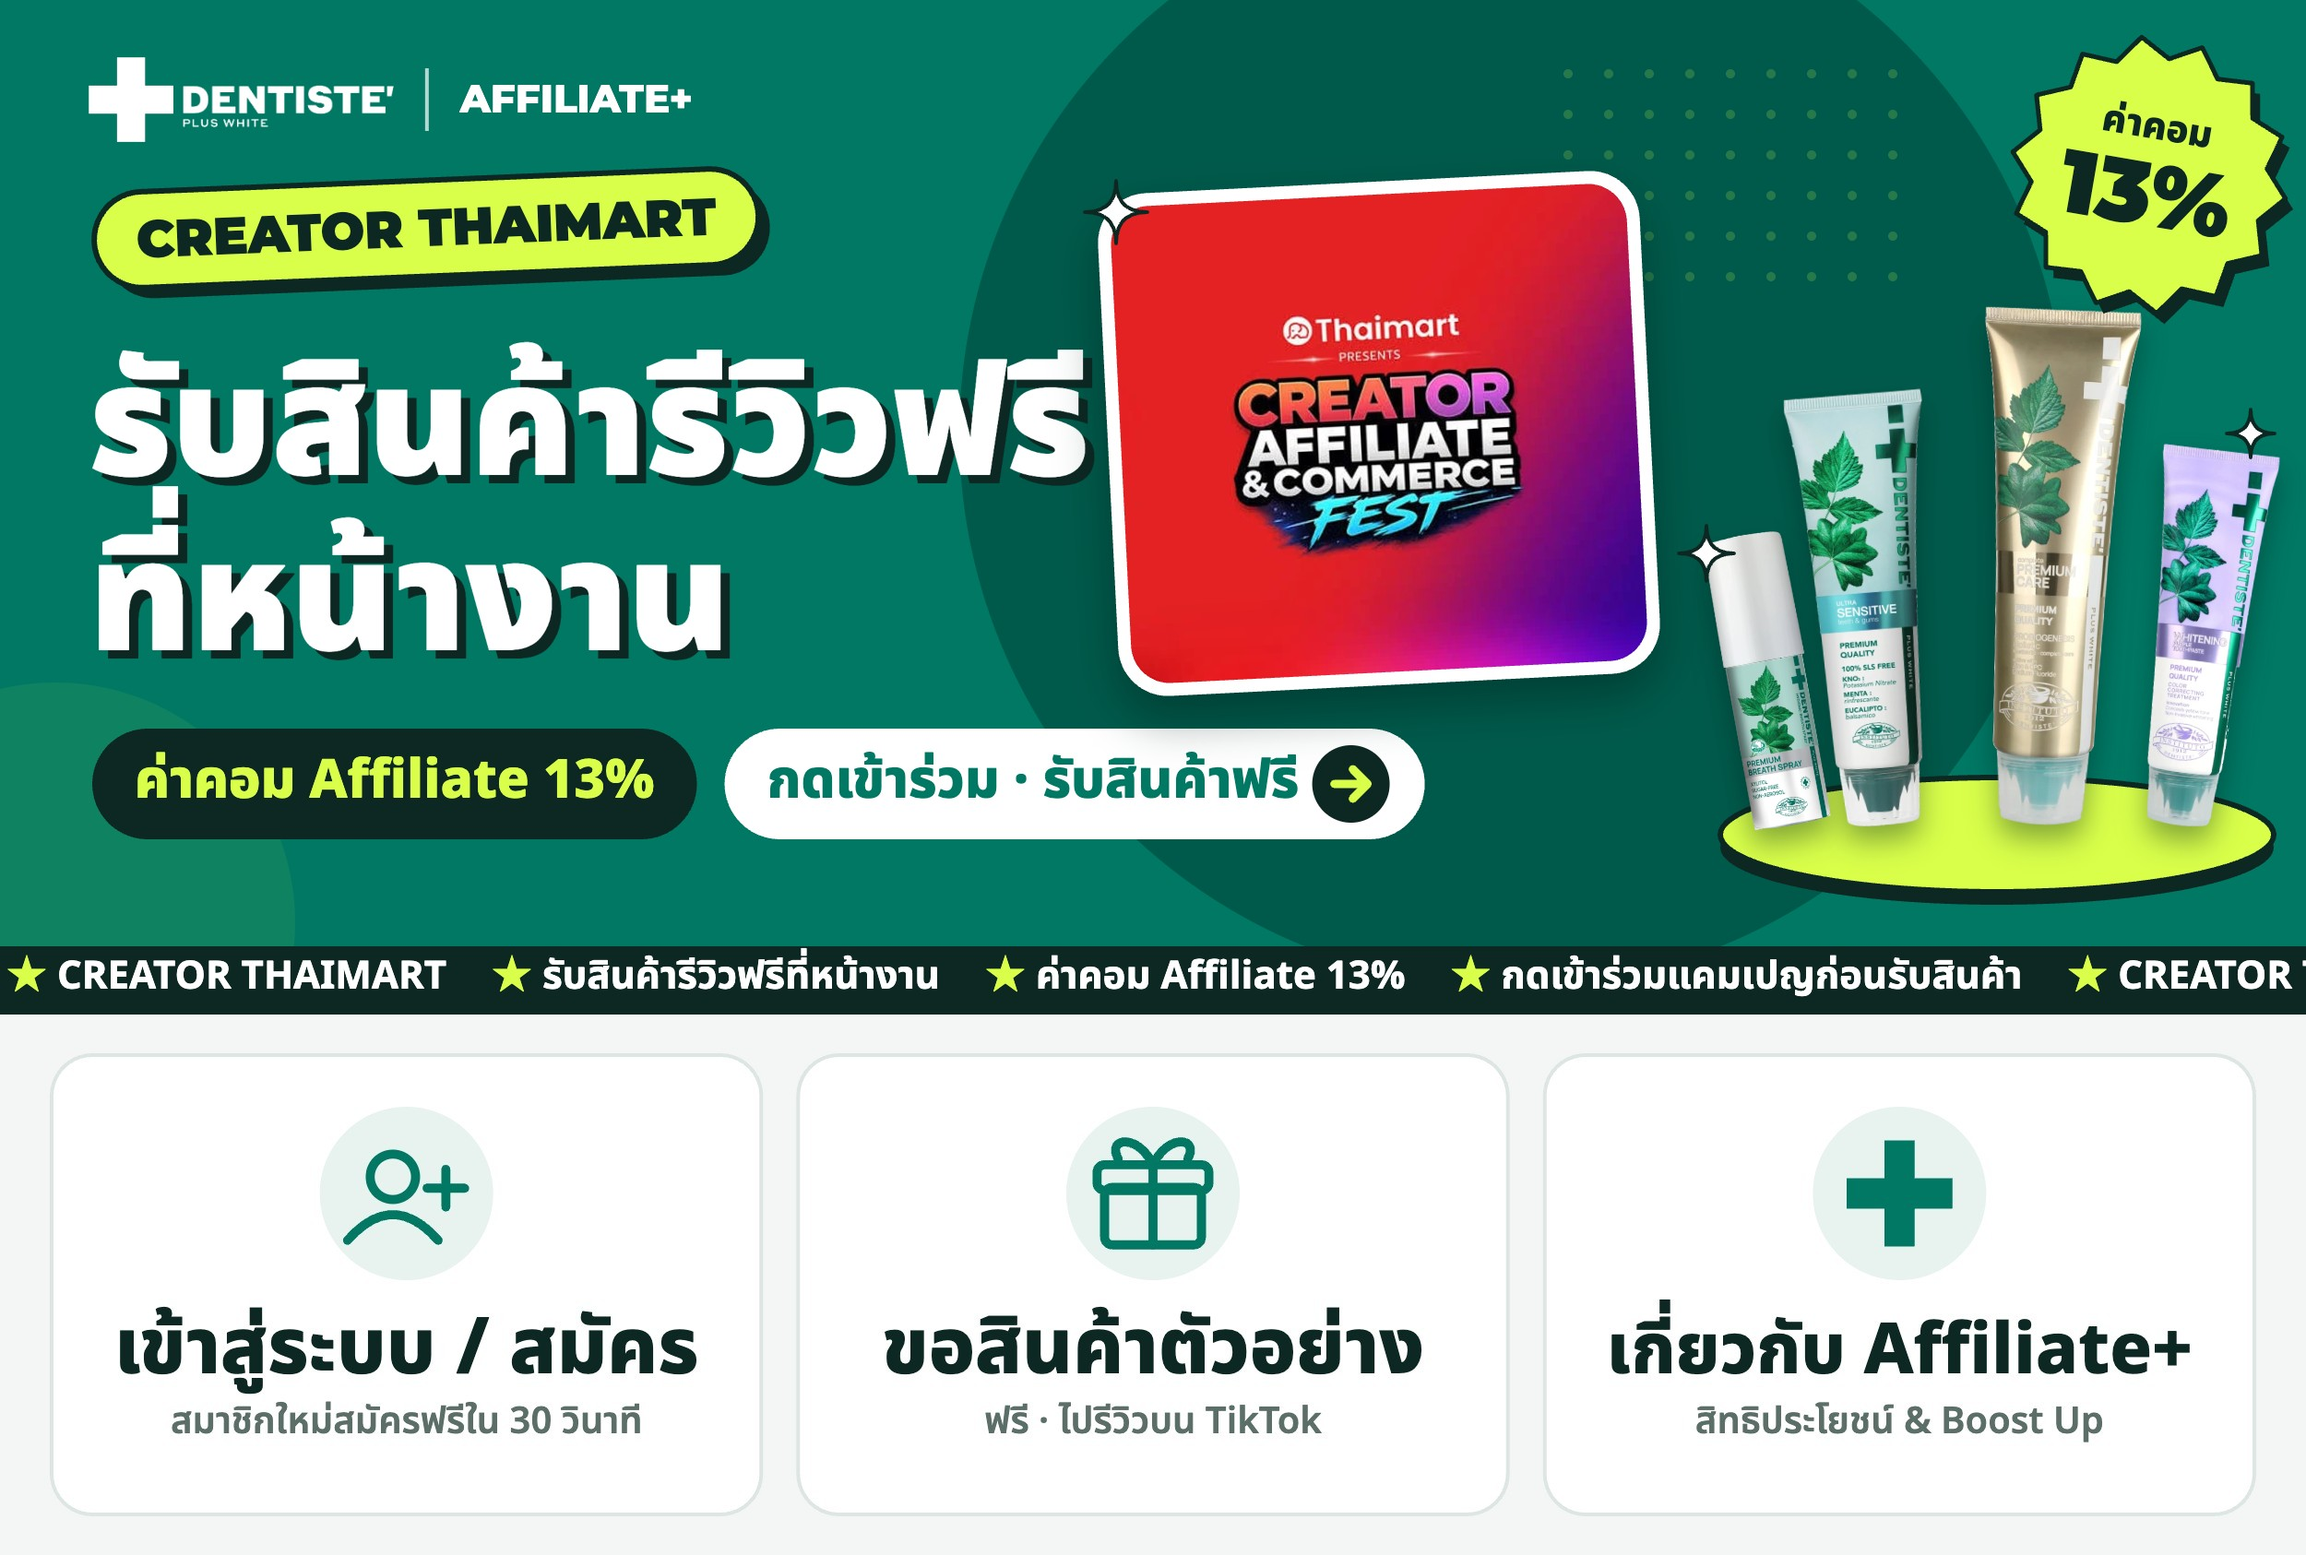
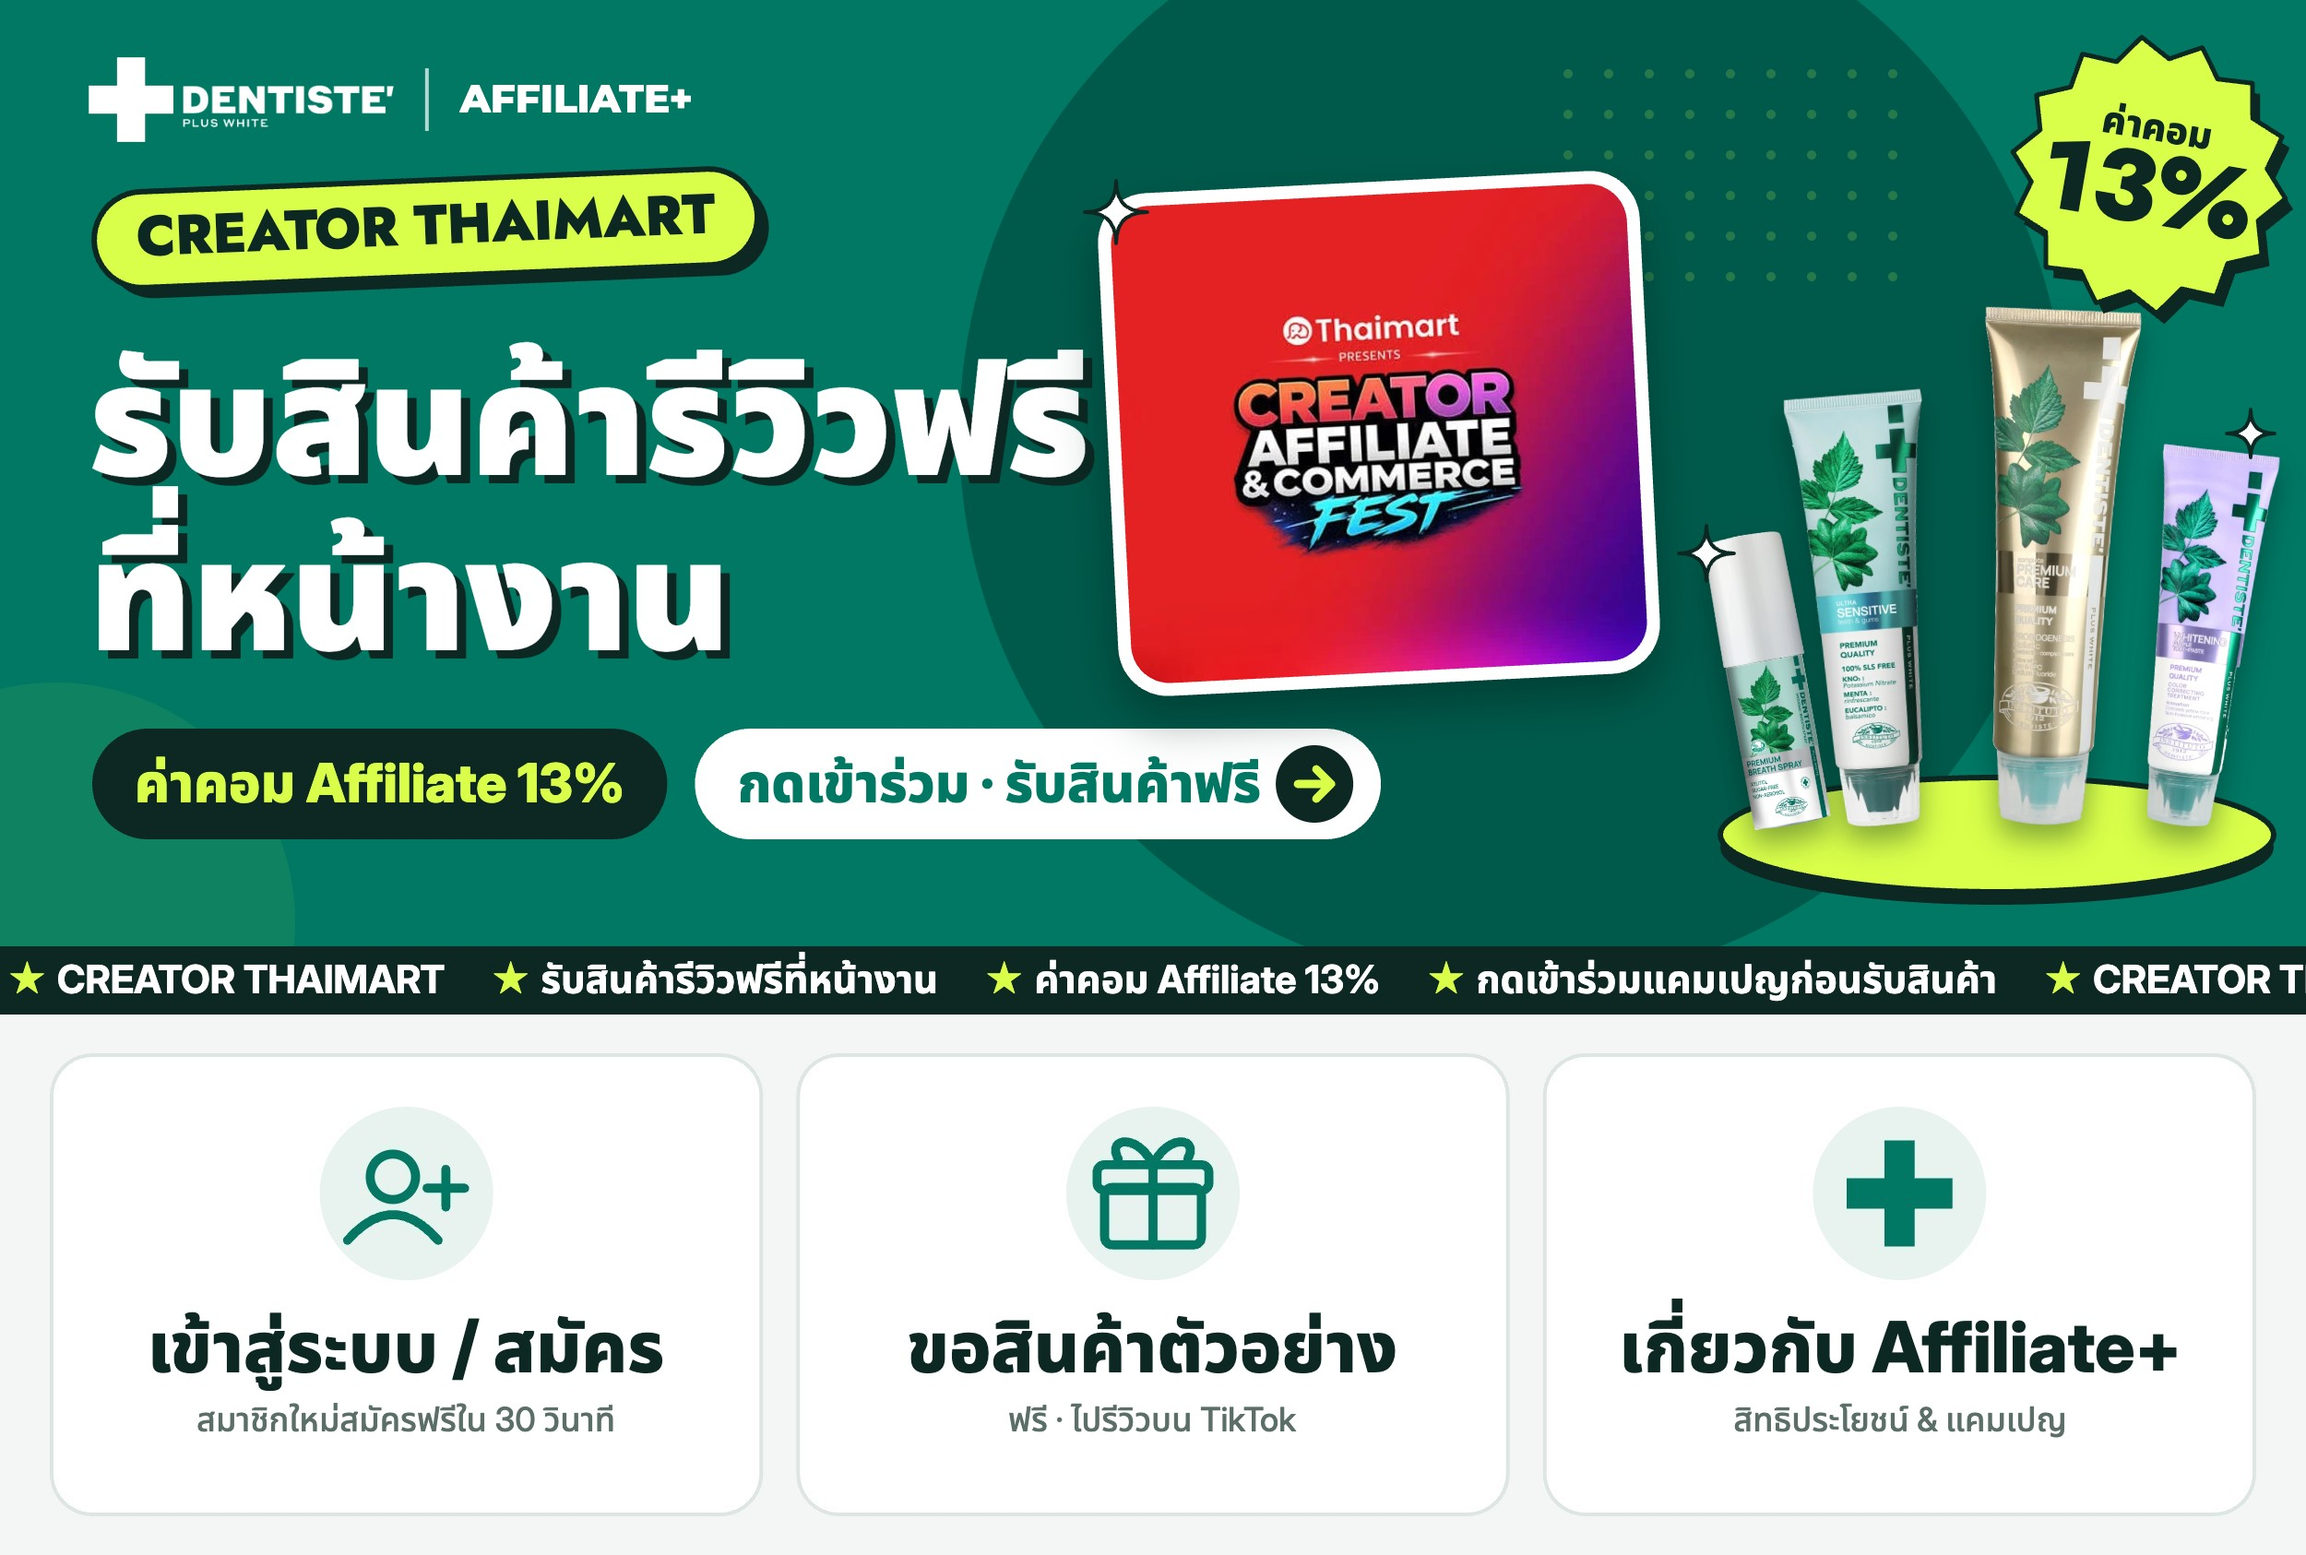
Fonts: Rich Menu + Affiliate Center match jomeloandtongar.com (Jost/Inter + Noto Sans Thai; AFFILIATE+ stays Montserrat)

diff --git a/admin.html b/admin.html
@@ -8,11 +8,11 @@
 <base target="_top">
 <link rel="preconnect" href="https://fonts.googleapis.com">
 <link rel="preconnect" href="https://fonts.gstatic.com" crossorigin>
-<link href="https://fonts.googleapis.com/css2?family=Noto+Sans+Thai:wght@400;500;600;700&display=swap" rel="stylesheet">
+<link href="https://fonts.googleapis.com/css2?family=Inter:wght@400;500;600;700;800&family=Jost:wght@500;600;700;800;900&family=Montserrat:wght@800&family=Noto+Sans+Thai:wght@400;500;600;700;800;900&display=swap" rel="stylesheet">
 <style>
   /* ===== Dentiste Affiliate Center — หลังบ้านทีม (สีทึบ ไม่ไล่สี) ===== */
   :root {
-    --font: 'Noto Sans Thai', -apple-system, system-ui, 'Segoe UI', sans-serif;
+    --font: -apple-system, BlinkMacSystemFont, "SF Pro Text", "SF Pro Display", "Inter", 'Noto Sans Thai', system-ui, 'Segoe UI', sans-serif;
     --green: #007864; --green-dark: #005A4B; --green-tint: #E8F2EF; --green-line: #B9DCD3;
     --top: #0E1F1B; --bg: #F3F5F4; --card: #FFFFFF; --line: #E4E9E7; --line-strong: #D3DCD8; --head: #F6F8F7;
     --ink: #14211E; --muted: #66736F; --faint: #98A39F;
